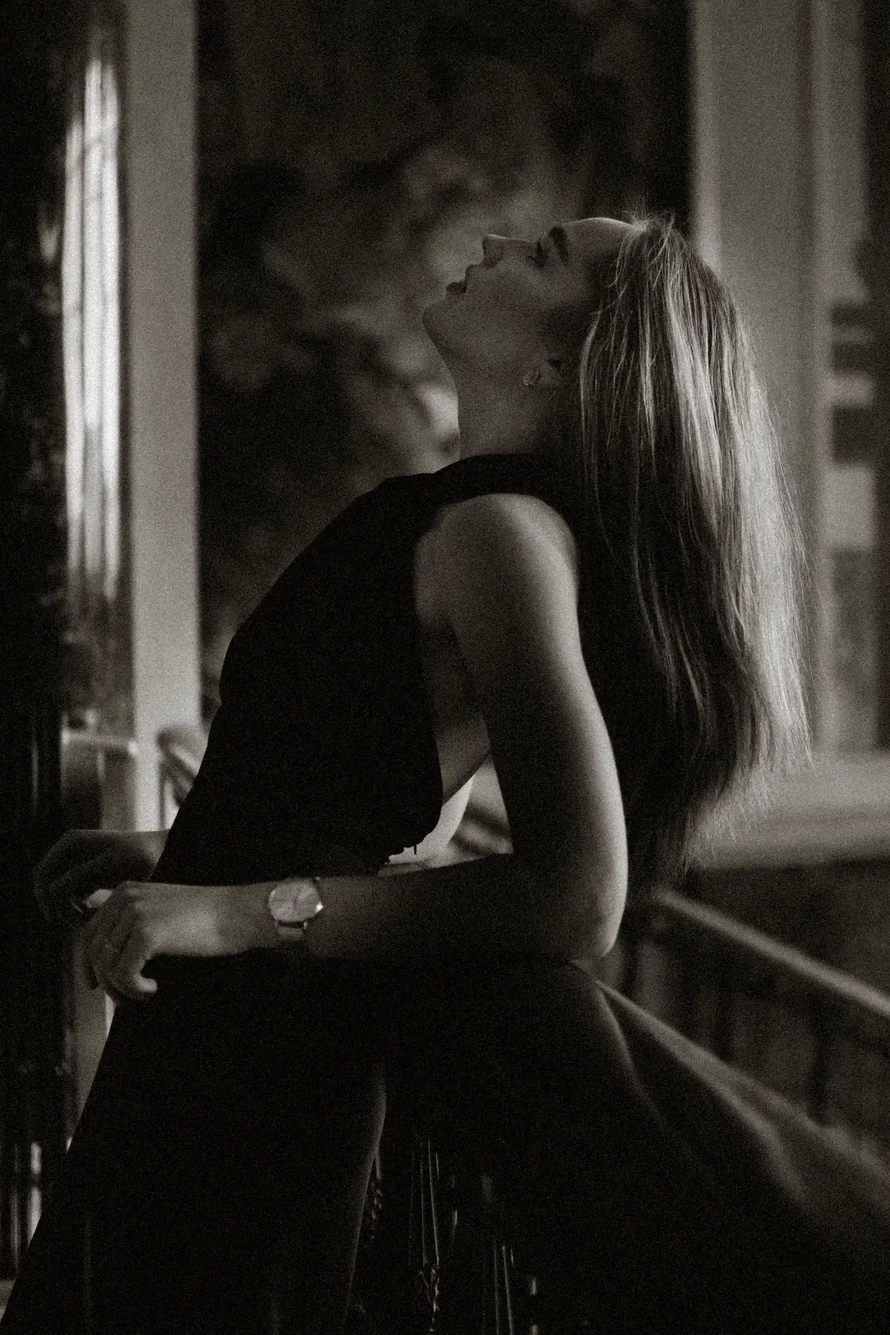
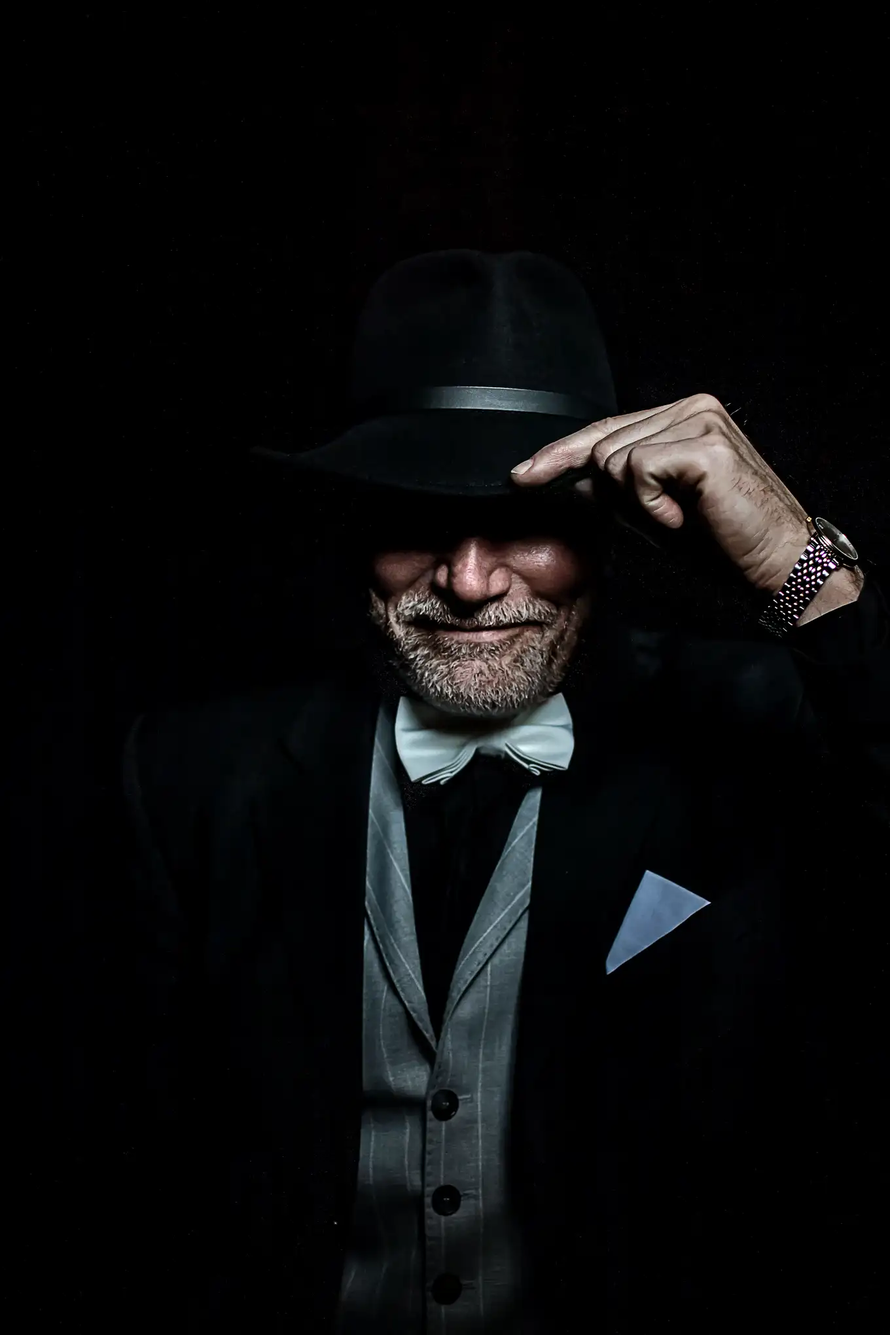
Add files via upload

diff --git a/hermes.html b/hermes.html
@@ -38,7 +38,7 @@ nav{position:fixed;top:0;left:0;right:0;z-index:1000;display:flex;align-items:ce
 .nav-back:hover{color:var(--gold)}
 /* MASTHEAD */
 .hub-hero{position:relative;min-height:82vh;display:flex;flex-direction:column;align-items:center;justify-content:center;text-align:center;padding:140px 24px 80px;overflow:hidden;
-  background:linear-gradient(180deg,rgba(10,10,9,.55),rgba(10,10,9,.4) 40%,rgba(10,10,9,.82) 80%,var(--ink)),radial-gradient(ellipse 90% 70% at 50% 30%,rgba(201,168,76,.10),transparent 60%),url('dispatch-editorial-bw.webp') center 20%/cover no-repeat}
+  background:linear-gradient(180deg,rgba(10,10,9,.55),rgba(10,10,9,.4) 40%,rgba(10,10,9,.82) 80%,var(--ink)),radial-gradient(ellipse 90% 70% at 50% 30%,rgba(201,168,76,.10),transparent 60%),url('dispatch-editorial-bw.webp') center 38%/cover no-repeat}
 .hub-seal{display:block;margin:50px auto 0;width:clamp(86px,9vw,116px);height:auto;opacity:.95;filter:drop-shadow(0 3px 16px rgba(0,0,0,.6))}
 /* frosted readability lozenge behind the centered hero copy — auto-sized by a radial mask, feathered into the photo */
 .hub-hero::before{content:'';position:absolute;inset:0;z-index:0;pointer-events:none;background:rgba(6,8,13,.5);-webkit-backdrop-filter:blur(6px) saturate(1.03);backdrop-filter:blur(6px) saturate(1.03);-webkit-mask-image:radial-gradient(ellipse 58% 46% at 50% 50%,#000 52%,transparent 100%);mask-image:radial-gradient(ellipse 58% 46% at 50% 50%,#000 52%,transparent 100%)}

diff --git a/index.html b/index.html
@@ -153,6 +153,7 @@ h1 em{display:block;font-style:normal;color:var(--gold);font-weight:600}
 .god{position:relative;min-height:380px;border:1px solid rgba(201,168,76,.14);overflow:hidden;display:flex;flex-direction:column;justify-content:flex-end;transition:transform .4s,border-color .4s}
 .god:hover{transform:translateY(-6px);border-color:rgba(201,168,76,.45)}
 .god .img{position:absolute;inset:0;background-size:cover;background-position:center 18%;filter:grayscale(.6) sepia(.22) contrast(1.08) brightness(.92)}
+.god .img.disp{background-position:center 40%}  /* the Dispatch subject sits mid-frame */
 .god::before{content:'';position:absolute;inset:0;background:linear-gradient(to top,rgba(6,6,5,.8) 0%,rgba(6,6,5,.42) 38%,rgba(6,6,5,.14) 66%,transparent 100%)}
 .god-title,.god-name,.god-link{text-shadow:0 1px 12px rgba(0,0,0,.85)}
 .god-body{position:relative;z-index:2;padding:22px}
@@ -544,7 +545,7 @@ footer .fb{font-family:'Cinzel',serif;font-size:15px;color:var(--gold);letter-sp
     <div class="god-cell">
       <p class="god-cat-top">News &amp; Stories</p>
       <a class="god" href="hermes.html">
-        <div class="img" data-god="dispatch-editorial-bw.webp"></div>
+        <div class="img disp" data-god="dispatch-editorial-bw.webp"></div>
         <div class="god-body">
           <p class="god-name">The Dispatch</p>
           <p class="god-title">What's moving the market, told to the minute.</p>
